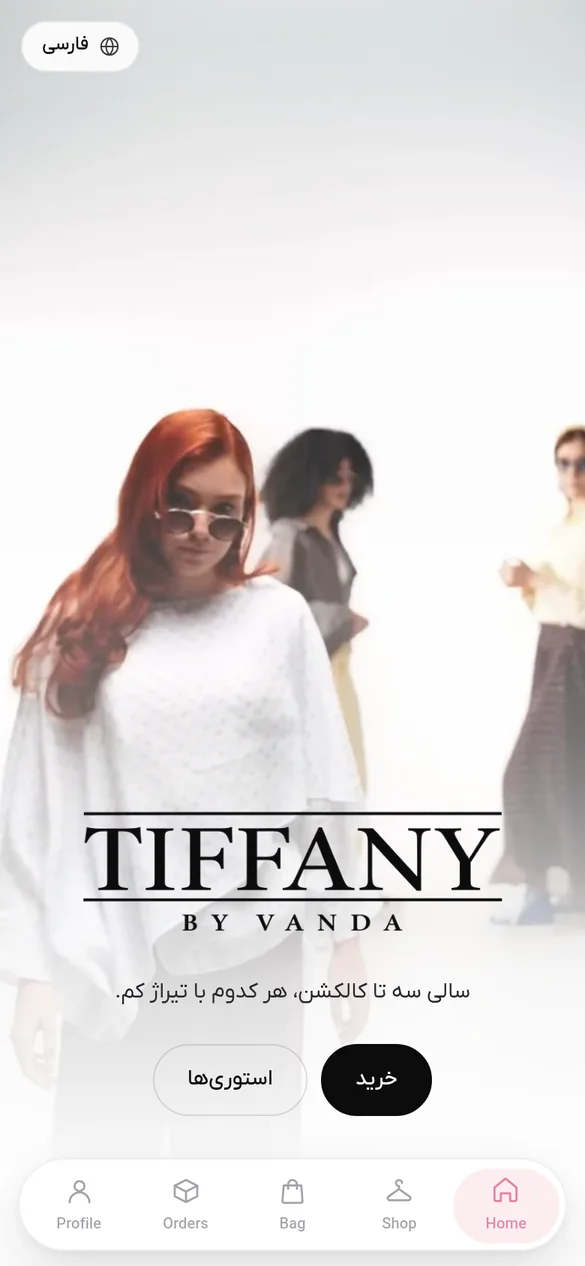
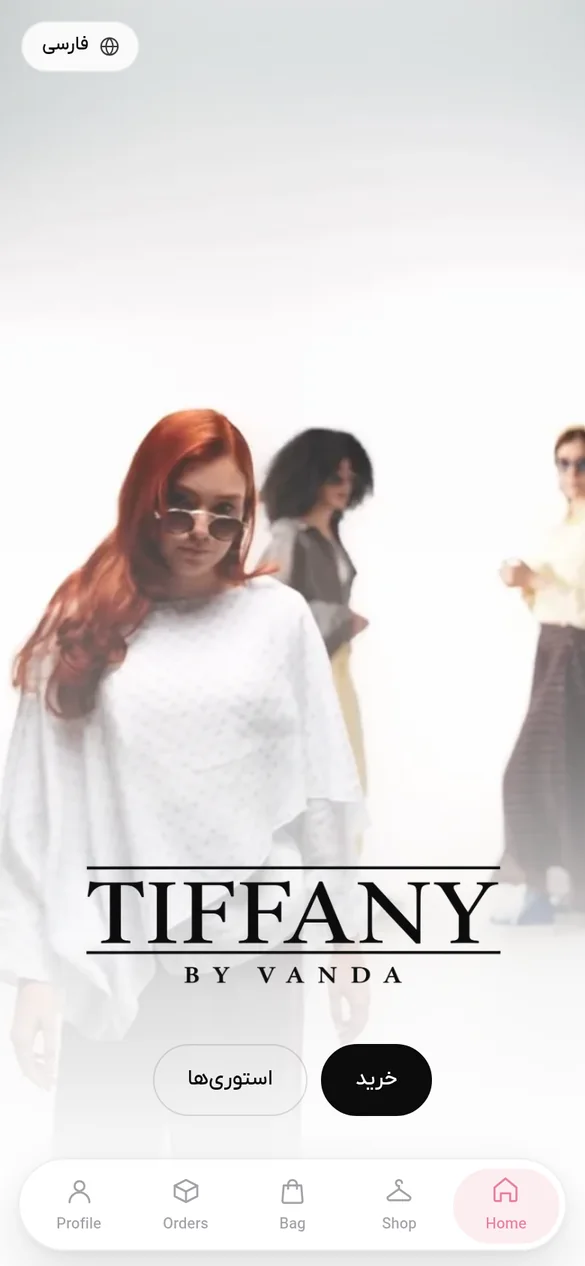
Hero: drop the "three collections a year" line
At the studio's request the hero now carries only the wordmark and the two
buttons; the wordmark gets the line's space (28px to the buttons). The
string and its style are gone with it. Service worker v7 so installed
copies pick it up.

Claude-Session: https://claude.ai/code/session_01AFf4J29tYVqJmvFxtpqxpv

Changed region(s): [[0.1538, 0.6161, 0.8615, 0.8009]]

diff --git a/css/app.css b/css/app.css
@@ -396,16 +396,12 @@ html[data-theme='dark'] .hero::after {
   text-align: center;
 }
 .hero-mark {
-  width: min(72vw, 330px); margin: 0 auto 16px;
+  width: min(72vw, 330px); margin: 0 auto 28px;
   aspect-ratio: 2098 / 749;
   background: var(--ink);
   -webkit-mask: url('../assets/brand/wordmark-white-1200.png') center/contain no-repeat;
   mask: url('../assets/brand/wordmark-white-1200.png') center/contain no-repeat;
   animation: rise .9s var(--ease) .1s both;
-}
-.hero-lede {
-  font-size: 14.5px; color: var(--ink-2); margin: 0 auto 22px; max-width: 38ch;
-  animation: rise .9s var(--ease) .22s both;
 }
 .hero-cta { display: flex; gap: 9px; justify-content: center;
   animation: rise .9s var(--ease) .32s both; }
@@ -1123,7 +1119,7 @@ html[dir='ltr'] h1, html[dir='ltr'] h2:not(.serif), html[dir='ltr'] h3:not(.seri
 }
 html[dir='ltr'] .pdp-title { line-height: 1.15; }
 html[dir='ltr'] .viewer-cap h3 { font-weight: 400; line-height: 1.15; }
-html[dir='ltr'] .lede, html[dir='ltr'] .hero-lede { line-height: 1.6; }
+html[dir='ltr'] .lede { line-height: 1.6; }
 html[dir='ltr'] .eyebrow, html[dir='ltr'] .pdp-col, html[dir='ltr'] .stat span,
 html[dir='ltr'] .field label, html[dir='ltr'] .guide-head {
   font-size: 10.5px; letter-spacing: .14em; text-transform: uppercase;

diff --git a/js/views/home.js b/js/views/home.js
@@ -37,7 +37,6 @@ const hero = () => `
   ${langSwitch()}
   <div class="hero-body">
     <h1 class="hero-mark" aria-label="${BRAND.name} ${BRAND.sub}"></h1>
-    <p class="hero-lede">${esc(BRAND.lede)}</p>
     <div class="hero-cta">
       <button class="btn btn-ink" data-act="nav" data-to="/shop" type="button">${esc(L('خرید', 'Shop', 'Alışveriş'))}</button>
       <button class="btn btn-line" data-act="look" data-i="0" type="button">${esc(L('استوریها', 'Stories', 'Hikâyeler'))}</button>

diff --git a/js/config.js b/js/config.js
@@ -10,9 +10,6 @@ export const BRAND = {
   name: 'TIFFANY',
   sub: 'BY VANDA',
   full: 'TIFFANY by Vanda',
-  lede: L('سالی سه تا کالکشن، هر کدوم با تیراژ کم.',
-    'Three collections a year, each one cut small.',
-    'Yılda üç koleksiyon, her biri az sayıda.'),
   instagram: 'tiffanyiran',
   instagramUrl: 'https://instagram.com/tiffanyiran',
   country: L('ایران', 'Iran', 'İran'),

diff --git a/sw.js b/sw.js
@@ -12,7 +12,7 @@
    worker still reads the browser's HTTP cache, and the host sends its own
    max-age, so the "network" copy can be the stale one. Every revalidation
    below bypasses it explicitly. */
-const V = 'tiffany-fa-v6';
+const V = 'tiffany-fa-v7';
 
 const SHELL = [
   './', 'index.html', 'css/app.css', 'manifest.webmanifest',
